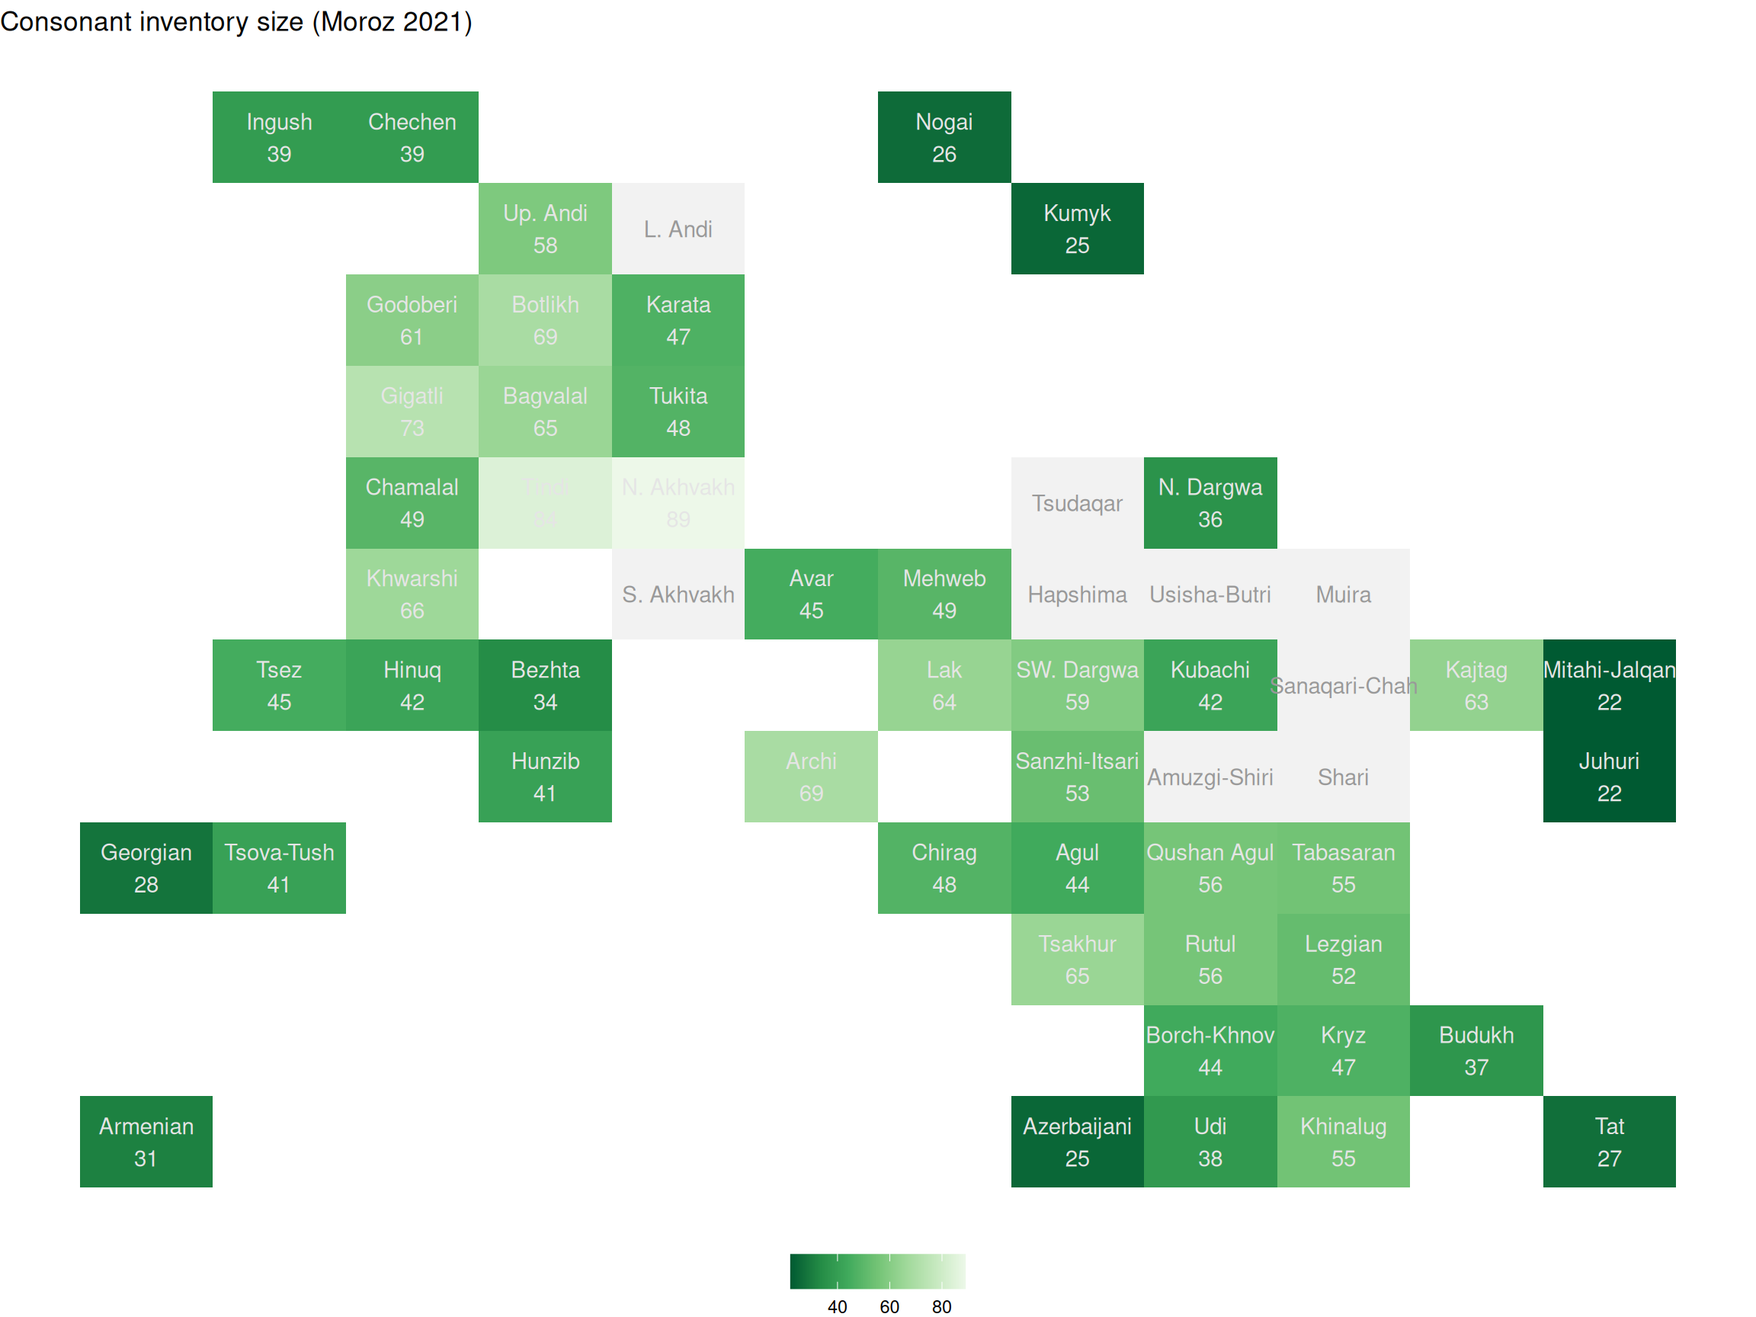
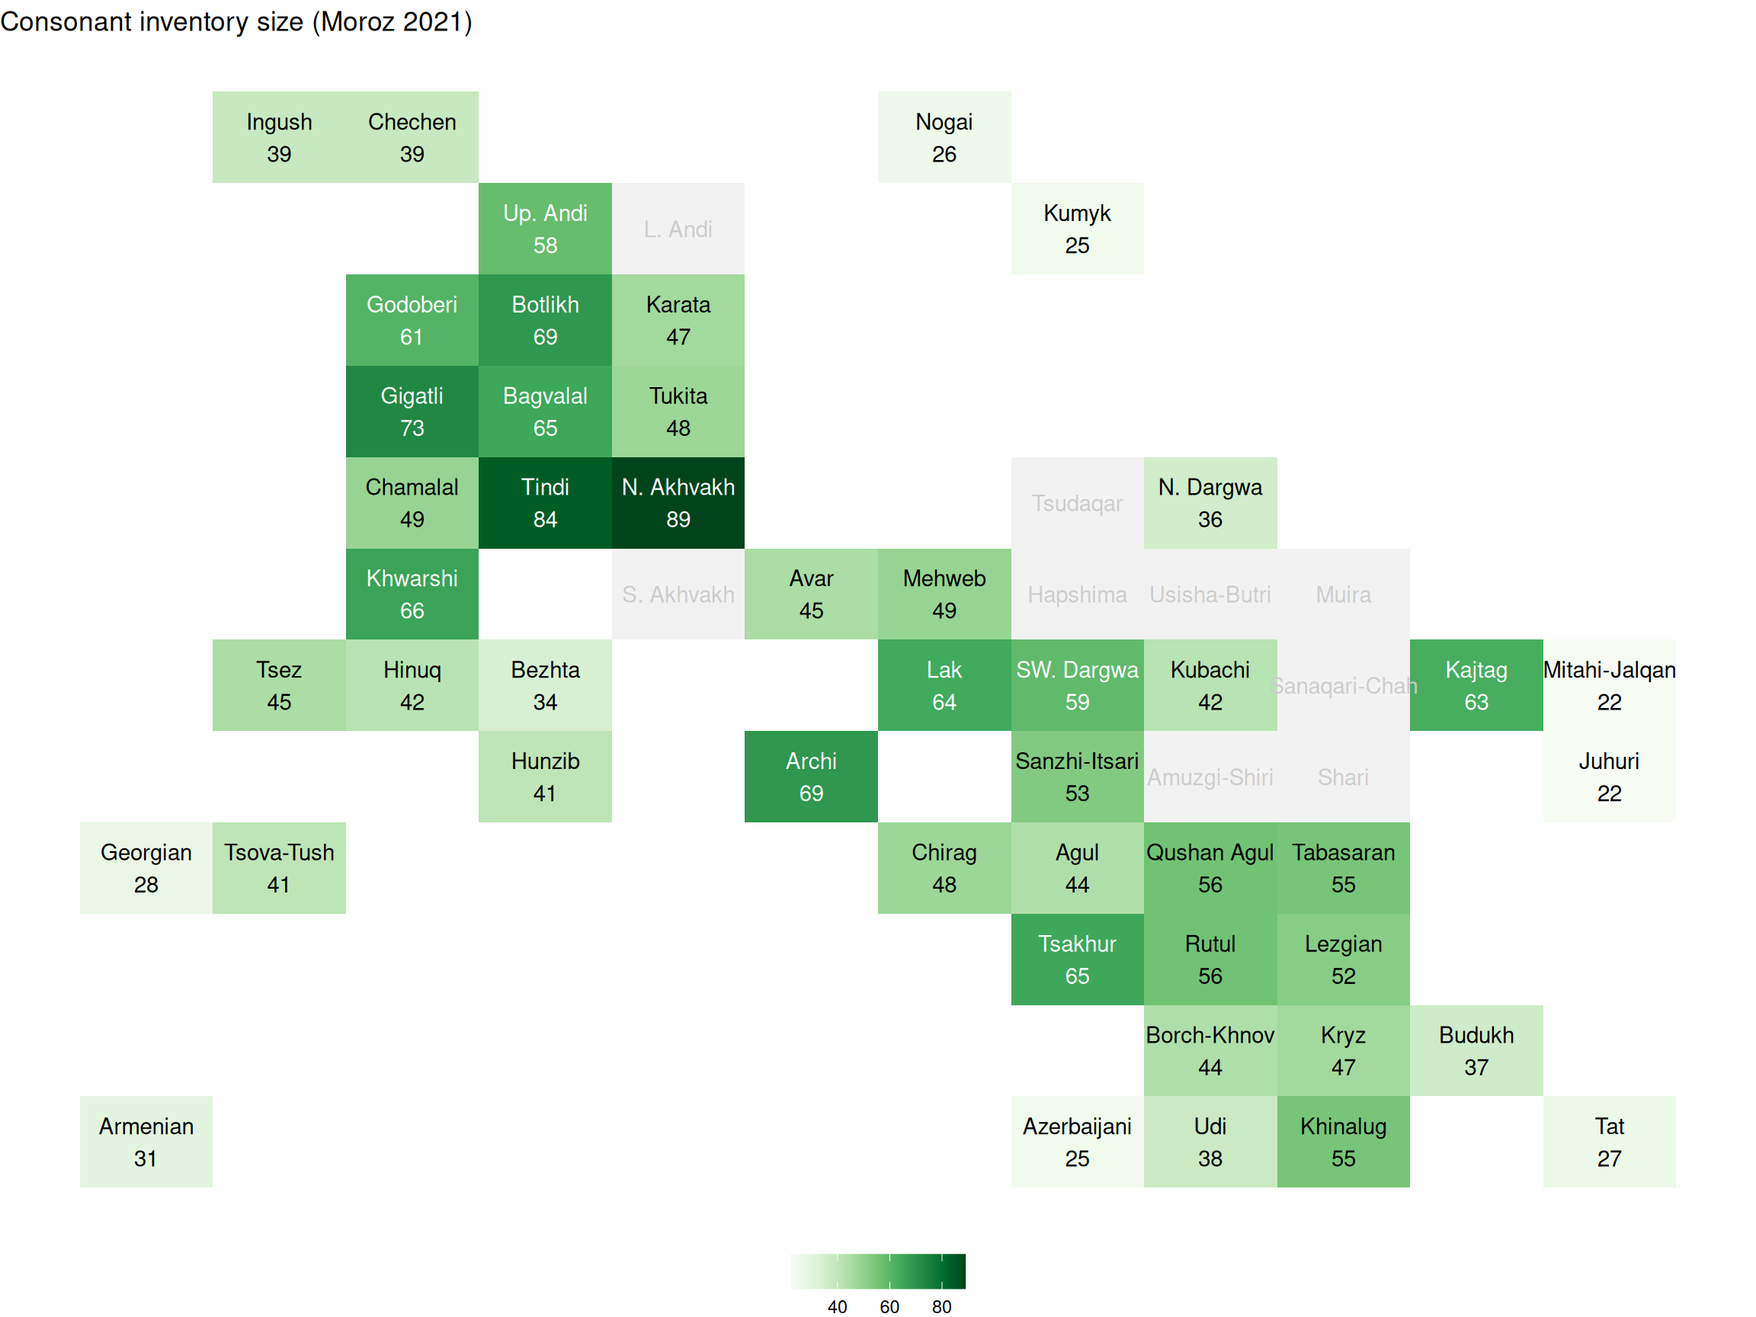
add 'tile_colors' argument

diff --git a/docs/index.html b/docs/index.html
@@ -282,14 +282,13 @@ A BibTeX entry for LaTeX users is
 </section>
 <section id="changing-the-default-colors" class="level2" data-number="4">
 <h2 data-number="4" class="anchored" data-anchor-id="changing-the-default-colors"><span class="header-section-number">4</span> Changing the default colors</h2>
-<p>It is possible that the default colors provided by <code>ggplot2</code> are not suitable for your plots. So <code>ggplot2</code> provides several tools for changing them. The function <code>scale_fill_distiller()</code> will help to change the colors of numeric variables to one of the predefined palettes (<code>Blues</code>, <code>BuGn</code>, <code>BuPu</code>, <code>GnBu</code>, <code>Greens</code>, <code>Grey</code>, <code>Oranges</code>, <code>OrRd</code>, <code>PuBu</code>, <code>PuBuGn</code>, <code>PuRd</code>, <code>Purples</code>, <code>RdPus</code>, <code>Reds</code>, <code>YlGn</code>, <code>YlGnBu</code>, <code>YlOrBr</code>, <code>YlOrRd</code>). There is a <code>direction</code> argument that makes it possible to reverse the order of the colors in the palette.</p>
+<p>It is possible that the default colors provided by <code>RCaucTile</code> are not suitable for your plots. The argument <code>tile_colors()</code> will help to change the colors of numeric variables to one of the predefined palettes from the <code>RColorBrewer</code> package (<code>Blues</code>, <code>BuGn</code>, <code>BuPu</code>, <code>GnBu</code>, <code>Greens</code>, <code>Grey</code>, <code>Oranges</code>, <code>OrRd</code>, <code>PuBu</code>, <code>PuBuGn</code>, <code>PuRd</code>, <code>Purples</code>, <code>RdPus</code>, <code>Reds</code>, <code>YlGn</code>, <code>YlGnBu</code>, <code>YlOrBr</code>, <code>YlOrRd</code>) or <code>viridis</code> package (<code>viridis</code>, <code>inferno</code>, <code>magma</code>, <code>plasma</code>). There is a <code>palette_reverse</code> argument that makes it possible to reverse the order of the colors in the palette.</p>
 <div class="cell">
-<div class="sourceCode cell-code" id="cb16"><pre class="sourceCode r code-with-copy"><code class="sourceCode r"><span id="cb16-1"><a href="#cb16-1" aria-hidden="true" tabindex="-1"></a><span class="fu">library</span>(ggplot2)</span>
-<span id="cb16-2"><a href="#cb16-2" aria-hidden="true" tabindex="-1"></a><span class="fu">ec_tile_map</span>(ec_languages,</span>
-<span id="cb16-3"><a href="#cb16-3" aria-hidden="true" tabindex="-1"></a>            <span class="at">feature_column =</span> <span class="st">"consonant_inventory_size"</span>,</span>
-<span id="cb16-4"><a href="#cb16-4" aria-hidden="true" tabindex="-1"></a>            <span class="at">title =</span> <span class="st">"Consonant inventory size (Moroz 2021)"</span>,</span>
-<span id="cb16-5"><a href="#cb16-5" aria-hidden="true" tabindex="-1"></a>            <span class="at">annotate_feature =</span> <span class="cn">TRUE</span>) <span class="sc">+</span></span>
-<span id="cb16-6"><a href="#cb16-6" aria-hidden="true" tabindex="-1"></a>  <span class="fu">scale_fill_distiller</span>(<span class="at">palette =</span> <span class="st">"Greens"</span>)</span></code><button title="Copy to Clipboard" class="code-copy-button"><i class="bi"></i></button></pre></div>
+<div class="sourceCode cell-code" id="cb16"><pre class="sourceCode r code-with-copy"><code class="sourceCode r"><span id="cb16-1"><a href="#cb16-1" aria-hidden="true" tabindex="-1"></a><span class="fu">ec_tile_map</span>(ec_languages,</span>
+<span id="cb16-2"><a href="#cb16-2" aria-hidden="true" tabindex="-1"></a>            <span class="at">feature_column =</span> <span class="st">"consonant_inventory_size"</span>,</span>
+<span id="cb16-3"><a href="#cb16-3" aria-hidden="true" tabindex="-1"></a>            <span class="at">title =</span> <span class="st">"Consonant inventory size (Moroz 2021)"</span>,</span>
+<span id="cb16-4"><a href="#cb16-4" aria-hidden="true" tabindex="-1"></a>            <span class="at">annotate_feature =</span> <span class="cn">TRUE</span>,</span>
+<span id="cb16-5"><a href="#cb16-5" aria-hidden="true" tabindex="-1"></a>            <span class="at">tile_colors =</span> <span class="st">"Greens"</span>)</span></code><button title="Copy to Clipboard" class="code-copy-button"><i class="bi"></i></button></pre></div>
 <div class="cell-output-display">
 <div>
 <figure class="figure">
@@ -300,8 +299,9 @@ A BibTeX entry for LaTeX users is
 <div class="sourceCode cell-code" id="cb17"><pre class="sourceCode r code-with-copy"><code class="sourceCode r"><span id="cb17-1"><a href="#cb17-1" aria-hidden="true" tabindex="-1"></a><span class="fu">ec_tile_map</span>(ec_languages,</span>
 <span id="cb17-2"><a href="#cb17-2" aria-hidden="true" tabindex="-1"></a>            <span class="at">feature_column =</span> <span class="st">"consonant_inventory_size"</span>,</span>
 <span id="cb17-3"><a href="#cb17-3" aria-hidden="true" tabindex="-1"></a>            <span class="at">title =</span> <span class="st">"Consonant inventory size (Moroz 2021)"</span>,</span>
-<span id="cb17-4"><a href="#cb17-4" aria-hidden="true" tabindex="-1"></a>            <span class="at">annotate_feature =</span> <span class="cn">TRUE</span>) <span class="sc">+</span></span>
-<span id="cb17-5"><a href="#cb17-5" aria-hidden="true" tabindex="-1"></a>  <span class="fu">scale_fill_distiller</span>(<span class="at">palette =</span> <span class="st">"Greens"</span>, <span class="at">direction =</span> <span class="dv">1</span>)</span></code><button title="Copy to Clipboard" class="code-copy-button"><i class="bi"></i></button></pre></div>
+<span id="cb17-4"><a href="#cb17-4" aria-hidden="true" tabindex="-1"></a>            <span class="at">annotate_feature =</span> <span class="cn">TRUE</span>,</span>
+<span id="cb17-5"><a href="#cb17-5" aria-hidden="true" tabindex="-1"></a>            <span class="at">tile_colors =</span> <span class="st">"Greens"</span>,</span>
+<span id="cb17-6"><a href="#cb17-6" aria-hidden="true" tabindex="-1"></a>            <span class="at">palette_reverse =</span> <span class="cn">TRUE</span>)</span></code><button title="Copy to Clipboard" class="code-copy-button"><i class="bi"></i></button></pre></div>
 <div class="cell-output-display">
 <div>
 <figure class="figure">
@@ -309,14 +309,39 @@ A BibTeX entry for LaTeX users is
 </figure>
 </div>
 </div>
-</div>
-<p>To define your own palette for a numeric variable, you can use the <code>scale_fill_gradient()</code> function.</p>
-<div class="cell">
 <div class="sourceCode cell-code" id="cb18"><pre class="sourceCode r code-with-copy"><code class="sourceCode r"><span id="cb18-1"><a href="#cb18-1" aria-hidden="true" tabindex="-1"></a><span class="fu">ec_tile_map</span>(ec_languages,</span>
 <span id="cb18-2"><a href="#cb18-2" aria-hidden="true" tabindex="-1"></a>            <span class="at">feature_column =</span> <span class="st">"consonant_inventory_size"</span>,</span>
 <span id="cb18-3"><a href="#cb18-3" aria-hidden="true" tabindex="-1"></a>            <span class="at">title =</span> <span class="st">"Consonant inventory size (Moroz 2021)"</span>,</span>
-<span id="cb18-4"><a href="#cb18-4" aria-hidden="true" tabindex="-1"></a>            <span class="at">annotate_feature =</span> <span class="cn">TRUE</span>) <span class="sc">+</span></span>
-<span id="cb18-5"><a href="#cb18-5" aria-hidden="true" tabindex="-1"></a>  <span class="fu">scale_fill_gradient</span>(<span class="at">low =</span> <span class="st">"navy"</span>, <span class="at">high =</span> <span class="st">"tomato"</span>)</span></code><button title="Copy to Clipboard" class="code-copy-button"><i class="bi"></i></button></pre></div>
+<span id="cb18-4"><a href="#cb18-4" aria-hidden="true" tabindex="-1"></a>            <span class="at">annotate_feature =</span> <span class="cn">TRUE</span>,</span>
+<span id="cb18-5"><a href="#cb18-5" aria-hidden="true" tabindex="-1"></a>            <span class="at">tile_colors =</span> <span class="st">"viridis"</span>)</span></code><button title="Copy to Clipboard" class="code-copy-button"><i class="bi"></i></button></pre></div>
+<div class="cell-output-display">
+<div>
+<figure class="figure">
+<p><img src="index_files/figure-html/unnamed-chunk-13-3.png" class="img-fluid figure-img" width="1152"></p>
+</figure>
+</div>
+</div>
+<div class="sourceCode cell-code" id="cb19"><pre class="sourceCode r code-with-copy"><code class="sourceCode r"><span id="cb19-1"><a href="#cb19-1" aria-hidden="true" tabindex="-1"></a><span class="fu">ec_tile_map</span>(ec_languages,</span>
+<span id="cb19-2"><a href="#cb19-2" aria-hidden="true" tabindex="-1"></a>            <span class="at">feature_column =</span> <span class="st">"consonant_inventory_size"</span>,</span>
+<span id="cb19-3"><a href="#cb19-3" aria-hidden="true" tabindex="-1"></a>            <span class="at">title =</span> <span class="st">"Consonant inventory size (Moroz 2021)"</span>,</span>
+<span id="cb19-4"><a href="#cb19-4" aria-hidden="true" tabindex="-1"></a>            <span class="at">annotate_feature =</span> <span class="cn">TRUE</span>,</span>
+<span id="cb19-5"><a href="#cb19-5" aria-hidden="true" tabindex="-1"></a>            <span class="at">tile_colors =</span> <span class="st">"viridis"</span>,</span>
+<span id="cb19-6"><a href="#cb19-6" aria-hidden="true" tabindex="-1"></a>            <span class="at">palette_reverse =</span> <span class="cn">TRUE</span>)</span></code><button title="Copy to Clipboard" class="code-copy-button"><i class="bi"></i></button></pre></div>
+<div class="cell-output-display">
+<div>
+<figure class="figure">
+<p><img src="index_files/figure-html/unnamed-chunk-13-4.png" class="img-fluid figure-img" width="1152"></p>
+</figure>
+</div>
+</div>
+</div>
+<p>To define your own palette for a numeric variable, you can add your own colors.</p>
+<div class="cell">
+<div class="sourceCode cell-code" id="cb20"><pre class="sourceCode r code-with-copy"><code class="sourceCode r"><span id="cb20-1"><a href="#cb20-1" aria-hidden="true" tabindex="-1"></a><span class="fu">ec_tile_map</span>(ec_languages,</span>
+<span id="cb20-2"><a href="#cb20-2" aria-hidden="true" tabindex="-1"></a>            <span class="at">feature_column =</span> <span class="st">"consonant_inventory_size"</span>,</span>
+<span id="cb20-3"><a href="#cb20-3" aria-hidden="true" tabindex="-1"></a>            <span class="at">title =</span> <span class="st">"Consonant inventory size (Moroz 2021)"</span>,</span>
+<span id="cb20-4"><a href="#cb20-4" aria-hidden="true" tabindex="-1"></a>            <span class="at">annotate_feature =</span> <span class="cn">TRUE</span>,</span>
+<span id="cb20-5"><a href="#cb20-5" aria-hidden="true" tabindex="-1"></a>            <span class="at">tile_colors =</span> <span class="fu">c</span>(<span class="st">"navy"</span>, <span class="st">"tomato"</span>))</span></code><button title="Copy to Clipboard" class="code-copy-button"><i class="bi"></i></button></pre></div>
 <div class="cell-output-display">
 <div>
 <figure class="figure">
@@ -325,14 +350,16 @@ A BibTeX entry for LaTeX users is
 </div>
 </div>
 </div>
-<p>When the color scheme is clear and the <code>annotate_feature</code> argument draws the exact values of the feature, it makes sense to get rid of the legend:</p>
+<p>When the color scheme is clear and the <code>annotate_feature</code> argument draws the exact values of the feature, it makes sense to get rid of the legend using the <code>theme()</code> function from <code>ggplot2</code>:</p>
 <div class="cell">
-<div class="sourceCode cell-code" id="cb19"><pre class="sourceCode r code-with-copy"><code class="sourceCode r"><span id="cb19-1"><a href="#cb19-1" aria-hidden="true" tabindex="-1"></a><span class="fu">ec_tile_map</span>(ec_languages,</span>
-<span id="cb19-2"><a href="#cb19-2" aria-hidden="true" tabindex="-1"></a>            <span class="at">feature_column =</span> <span class="st">"consonant_inventory_size"</span>,</span>
-<span id="cb19-3"><a href="#cb19-3" aria-hidden="true" tabindex="-1"></a>            <span class="at">title =</span> <span class="st">"Consonant inventory size (Moroz 2021)"</span>,</span>
-<span id="cb19-4"><a href="#cb19-4" aria-hidden="true" tabindex="-1"></a>            <span class="at">annotate_feature =</span> <span class="cn">TRUE</span>) <span class="sc">+</span></span>
-<span id="cb19-5"><a href="#cb19-5" aria-hidden="true" tabindex="-1"></a>  <span class="fu">scale_fill_gradient</span>(<span class="at">low =</span> <span class="st">"navy"</span>, <span class="at">high =</span> <span class="st">"tomato"</span>)<span class="sc">+</span></span>
-<span id="cb19-6"><a href="#cb19-6" aria-hidden="true" tabindex="-1"></a>  <span class="fu">theme</span>(<span class="at">legend.position =</span> <span class="st">"none"</span>)</span></code><button title="Copy to Clipboard" class="code-copy-button"><i class="bi"></i></button></pre></div>
+<div class="sourceCode cell-code" id="cb21"><pre class="sourceCode r code-with-copy"><code class="sourceCode r"><span id="cb21-1"><a href="#cb21-1" aria-hidden="true" tabindex="-1"></a><span class="fu">library</span>(ggplot2)</span>
+<span id="cb21-2"><a href="#cb21-2" aria-hidden="true" tabindex="-1"></a></span>
+<span id="cb21-3"><a href="#cb21-3" aria-hidden="true" tabindex="-1"></a><span class="fu">ec_tile_map</span>(ec_languages,</span>
+<span id="cb21-4"><a href="#cb21-4" aria-hidden="true" tabindex="-1"></a>            <span class="at">feature_column =</span> <span class="st">"consonant_inventory_size"</span>,</span>
+<span id="cb21-5"><a href="#cb21-5" aria-hidden="true" tabindex="-1"></a>            <span class="at">title =</span> <span class="st">"Consonant inventory size (Moroz 2021)"</span>,</span>
+<span id="cb21-6"><a href="#cb21-6" aria-hidden="true" tabindex="-1"></a>            <span class="at">annotate_feature =</span> <span class="cn">TRUE</span>,</span>
+<span id="cb21-7"><a href="#cb21-7" aria-hidden="true" tabindex="-1"></a>            <span class="at">tile_colors =</span> <span class="fu">c</span>(<span class="st">"navy"</span>, <span class="st">"tomato"</span>)) <span class="sc">+</span></span>
+<span id="cb21-8"><a href="#cb21-8" aria-hidden="true" tabindex="-1"></a>  <span class="fu">theme</span>(<span class="at">legend.position =</span> <span class="st">"none"</span>)</span></code><button title="Copy to Clipboard" class="code-copy-button"><i class="bi"></i></button></pre></div>
 <div class="cell-output-display">
 <div>
 <figure class="figure">
@@ -341,16 +368,13 @@ A BibTeX entry for LaTeX users is
 </div>
 </div>
 </div>
-<p>The function <code>scale_fill_brewer()</code> will help to change the colors of categorical variables to one of the predefined palettes (<code>Accent</code>, <code>Dark2</code>, <code>Paired</code>, <code>Pastel1</code>, <code>Pastel2</code>, <code>Set1</code>, <code>Set2</code>, <code>Set3</code>).</p>
+<p>The <code>tile_colors</code> argument will help to change the colors of categorical variables to one of the predefined palettes (<code>Accent</code>, <code>Dark2</code>, <code>Paired</code>, <code>Pastel1</code>, <code>Pastel2</code>, <code>Set1</code>, <code>Set2</code>, <code>Set3</code>).</p>
 <div class="cell">
-<div class="sourceCode cell-code" id="cb20"><pre class="sourceCode r code-with-copy"><code class="sourceCode r"><span id="cb20-1"><a href="#cb20-1" aria-hidden="true" tabindex="-1"></a><span class="fu">ec_tile_map</span>(ec_languages,</span>
-<span id="cb20-2"><a href="#cb20-2" aria-hidden="true" tabindex="-1"></a>            <span class="at">feature_column =</span> <span class="st">"morning_greetings"</span>,</span>
-<span id="cb20-3"><a href="#cb20-3" aria-hidden="true" tabindex="-1"></a>            <span class="at">title =</span> <span class="st">"Morning greetings (Naccarato, Verhees 2021)"</span>)<span class="sc">+</span></span>
-<span id="cb20-4"><a href="#cb20-4" aria-hidden="true" tabindex="-1"></a>  <span class="fu">scale_fill_brewer</span>(<span class="at">palette =</span> <span class="st">"Pastel1"</span>, <span class="at">na.translate =</span> <span class="cn">FALSE</span>)</span></code><button title="Copy to Clipboard" class="code-copy-button"><i class="bi"></i></button></pre></div>
-<div class="cell-output cell-output-stderr">
-<pre><code>Scale for fill is already present.
-Adding another scale for fill, which will replace the existing scale.</code></pre>
-</div>
+<div class="sourceCode cell-code" id="cb22"><pre class="sourceCode r code-with-copy"><code class="sourceCode r"><span id="cb22-1"><a href="#cb22-1" aria-hidden="true" tabindex="-1"></a><span class="fu">ec_tile_map</span>(ec_languages,</span>
+<span id="cb22-2"><a href="#cb22-2" aria-hidden="true" tabindex="-1"></a>            <span class="at">feature_column =</span> <span class="st">"morning_greetings"</span>,</span>
+<span id="cb22-3"><a href="#cb22-3" aria-hidden="true" tabindex="-1"></a>            <span class="at">title =</span> <span class="st">"Morning greetings (Naccarato, Verhees 2021)"</span>,</span>
+<span id="cb22-4"><a href="#cb22-4" aria-hidden="true" tabindex="-1"></a>            <span class="at">tile_colors =</span> <span class="st">"Pastel1"</span>, </span>
+<span id="cb22-5"><a href="#cb22-5" aria-hidden="true" tabindex="-1"></a>            <span class="at">palette_reverse =</span> <span class="cn">TRUE</span>)</span></code><button title="Copy to Clipboard" class="code-copy-button"><i class="bi"></i></button></pre></div>
 <div class="cell-output-display">
 <div>
 <figure class="figure">
@@ -359,16 +383,12 @@ Adding another scale for fill, which will replace the existing scale.</code></pr
 </div>
 </div>
 </div>
-<p>To define your own palette for a categorical variable, you can use the <code>scale_fill_manual()</code> function.</p>
+<p>To define your own palette for a categorical variable, you can use the <code>tile_colors</code> argument. Just keep an eye on prodviding the same amount of colors as you have in the feature variable.</p>
 <div class="cell">
-<div class="sourceCode cell-code" id="cb22"><pre class="sourceCode r code-with-copy"><code class="sourceCode r"><span id="cb22-1"><a href="#cb22-1" aria-hidden="true" tabindex="-1"></a><span class="fu">ec_tile_map</span>(ec_languages,</span>
-<span id="cb22-2"><a href="#cb22-2" aria-hidden="true" tabindex="-1"></a>            <span class="at">feature_column =</span> <span class="st">"morning_greetings"</span>,</span>
-<span id="cb22-3"><a href="#cb22-3" aria-hidden="true" tabindex="-1"></a>            <span class="at">title =</span> <span class="st">"Morning greetings (Naccarato, Verhees 2021)"</span>)<span class="sc">+</span></span>
-<span id="cb22-4"><a href="#cb22-4" aria-hidden="true" tabindex="-1"></a>  <span class="fu">scale_fill_manual</span>(<span class="at">values =</span> <span class="fu">c</span>(<span class="st">"#D81E05"</span>, <span class="st">"#0070A1"</span>, <span class="st">"#00923F"</span>), <span class="at">na.translate =</span> <span class="cn">FALSE</span>)</span></code><button title="Copy to Clipboard" class="code-copy-button"><i class="bi"></i></button></pre></div>
-<div class="cell-output cell-output-stderr">
-<pre><code>Scale for fill is already present.
-Adding another scale for fill, which will replace the existing scale.</code></pre>
-</div>
+<div class="sourceCode cell-code" id="cb23"><pre class="sourceCode r code-with-copy"><code class="sourceCode r"><span id="cb23-1"><a href="#cb23-1" aria-hidden="true" tabindex="-1"></a><span class="fu">ec_tile_map</span>(ec_languages,</span>
+<span id="cb23-2"><a href="#cb23-2" aria-hidden="true" tabindex="-1"></a>            <span class="at">feature_column =</span> <span class="st">"morning_greetings"</span>,</span>
+<span id="cb23-3"><a href="#cb23-3" aria-hidden="true" tabindex="-1"></a>            <span class="at">title =</span> <span class="st">"Morning greetings (Naccarato, Verhees 2021)"</span>,</span>
+<span id="cb23-4"><a href="#cb23-4" aria-hidden="true" tabindex="-1"></a>            <span class="at">tile_colors =</span> <span class="fu">c</span>(<span class="st">"#D81E05"</span>, <span class="st">"#0070A1"</span>, <span class="st">"#00923F"</span>))</span></code><button title="Copy to Clipboard" class="code-copy-button"><i class="bi"></i></button></pre></div>
 <div class="cell-output-display">
 <div>
 <figure class="figure">
